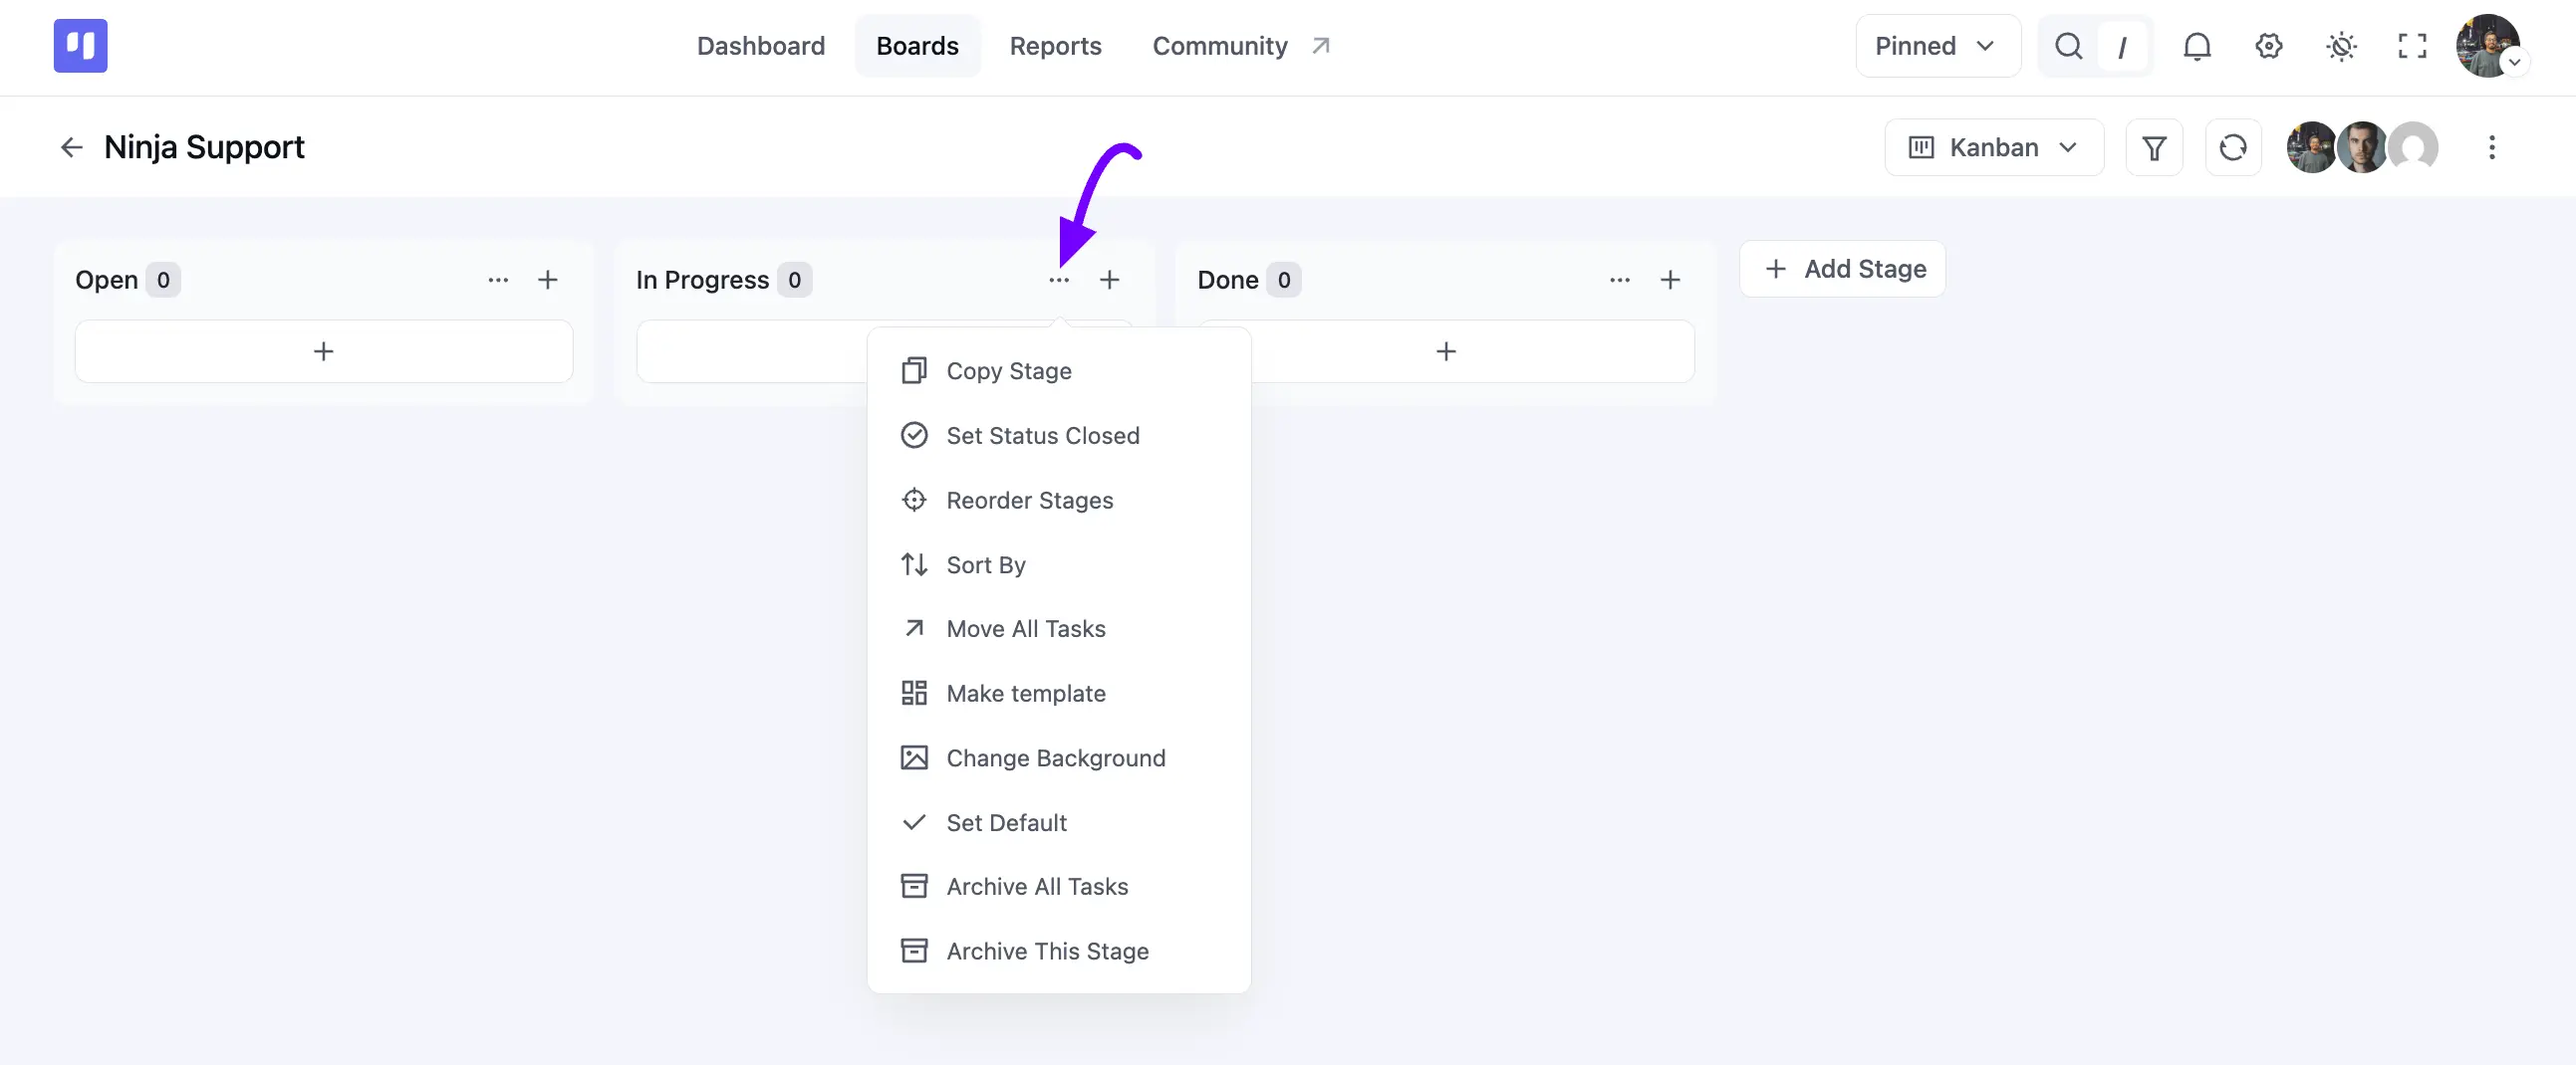
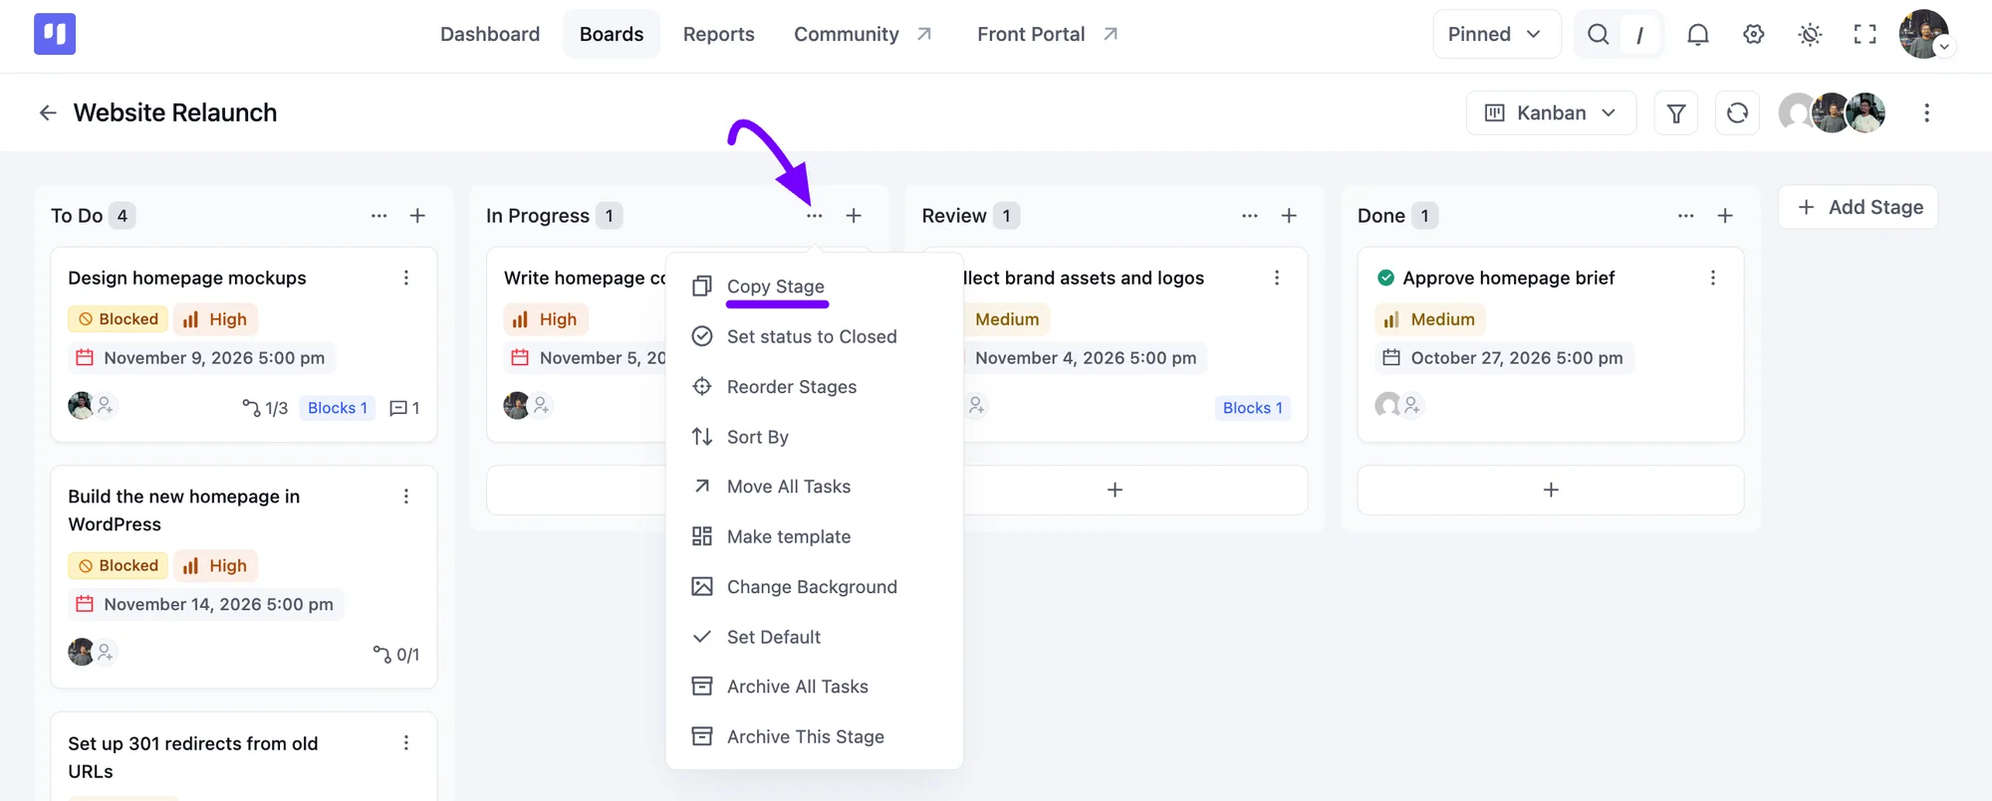
update and description add Creating and Managing Stages doc

diff --git a/docs/tasks/task-action.md b/docs/tasks/task-action.md
@@ -7,7 +7,7 @@ description: "Open the Task Actions menu in FluentBoards to find extra options f
 Open any task, then click the **Three Dot** icon in the top right corner of the task pop-up to reveal the **Task Actions** menu. These actions give you extra options for organizing and managing that task:
 
 - **Copy Task Link**: Copies a link to this task, so you can send it to a teammate who already has access to the board.
-- **Share Task**: Creates a read-only link that anyone can open without logging in. See [Share a Task with a Read-Only Link](#share-a-task-with-a-read-only-link) below.
+- **Share Task**: Creates a read-only link that anyone can open without logging in. Your site admin can turn this option off for the whole site. See [Share a Task with a Read-Only Link](#share-a-task-with-a-read-only-link) below.
 - **Pin Task**: Pin your most critical tasks so they stay at the top of your board, easy to find on busy boards.
 - **Join as Assignee / Leave Task**: If you're not assigned to the task yet, this shows as **Join as Assignee**, letting you add yourself with one click. Once you've joined, the same spot shows **Leave Task**, so you can remove yourself as an assignee just as easily.
 - **Move**: Allows you to move the task to any board and stage. This experience has been redesigned to make changing a task's stage or board quicker and clearer. Its comments, replies, attachments, and time-tracking entries all move along with it.
@@ -45,6 +45,8 @@ Once you're done, click the **Create link** button. Then click **Copy share link
 ### Change or Turn Off a Share Link
 
 Reopen **Share Task** any time to change what visitors see. Your link stays the same, so you don't need to send it again.
+
+You can also manage every task link on a board in one place. Open the board's **Three Dot** menu, select **Share**, then open the **Task links** tab. Click **Manage link** next to a task to change it. Learn more in the [Share](/board-settings#share) section.
 
 To stop sharing, click the **Disable link** button. The old link stops working right away. If you share the task again later, FluentBoards creates a brand-new link.
 

diff --git a/docs/stages/how-to-create-a-new-stage.md b/docs/stages/how-to-create-a-new-stage.md
@@ -22,7 +22,11 @@ If you'd rather start from a saved stage, click **Start From Template** instead 
 
 At the top right corner of your stage, you'll find a **Three Dot** icon button. Clicking on it will reveal several actions specific to this stage. Below, we'll detail all the available actions for your Stage.
 
-**Copy Stage:** This action duplicates the stage, creating another identical stage.
+**Copy Stage:** This action duplicates the stage and places the copy right after the original. A **Copy Stage** pop-up will appear with a name for the new stage. Edit it if you like.
+
+![copy stage pop-up](../public/images/stage-management/how-to-create-a-new-stage/copy-stage-4.webp)
+
+**Copy tasks with their details** is ticked by default. Each active task comes over with its assignees, labels, attachments, and subtasks, including subtask assignees. Comments stay with the original, and archived tasks aren't copied. You can copy up to 200 tasks at once. Untick it to copy an empty stage with the same name. Once you're done, click the **Copy Stage** button.
 
 **Set Status Closed:** This action toggles the stage status between open and closed.
 
